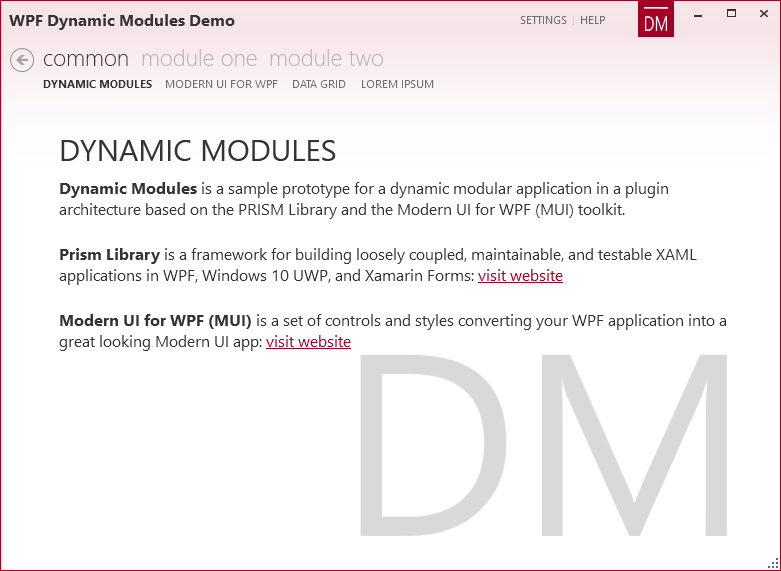
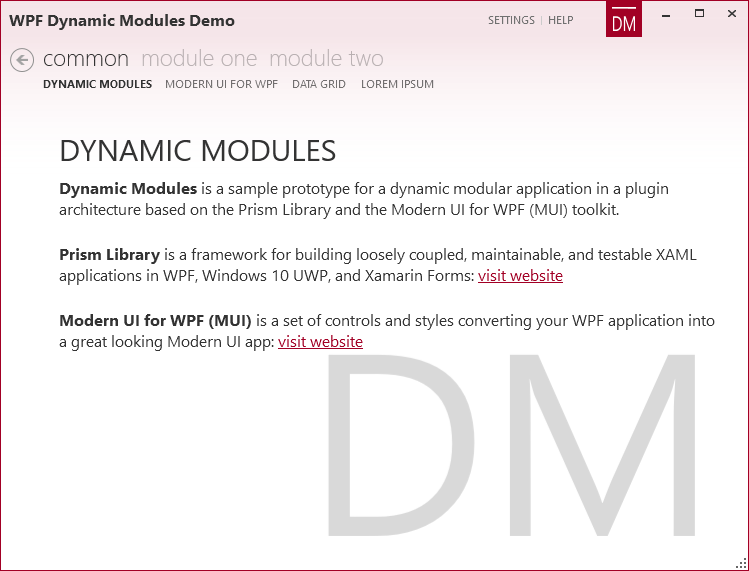
Minor corrections

diff --git a/src/DynamicModules/Views/IntroductionView.xaml b/src/DynamicModules/Views/IntroductionView.xaml
@@ -11,7 +11,7 @@
         <ScrollViewer>
             <StackPanel >
                 <TextBlock Text="DYNAMIC MODULES" Style="{StaticResource Heading1}" Margin="0,0,0,8"/>
-                <mui:BBCodeBlock BBCode="[b]Dynamic Modules[/b] is a sample prototype for a dynamic modular application in a plugin architecture based on the PRISM Library and the Modern UI for WPF (MUI) toolkit." Margin="0,0,0,24" />
+                <mui:BBCodeBlock BBCode="[b]Dynamic Modules[/b] is a sample prototype for a dynamic modular application in a plugin architecture based on the Prism Library and the Modern UI for WPF (MUI) toolkit." Margin="0,0,0,24" />
                 <mui:BBCodeBlock BBCode="[b]Prism Library[/b] is a framework for building loosely coupled, maintainable, and testable XAML applications in WPF, Windows 10 UWP, and Xamarin Forms: [url=https://github.com/PrismLibrary/Prism]visit website[/url]" Margin="0,0,0,24" />
                 <mui:BBCodeBlock BBCode="[b]Modern UI for WPF (MUI)[/b] is a set of controls and styles converting your WPF application into a great looking Modern UI app: [url=https://github.com/firstfloorsoftware/mui]visit website[/url]" Margin="0,0,0,24" /> 
             </StackPanel>

diff --git a/src/DM.ModuleTwo/ModuleTwo.cs b/src/DM.ModuleTwo/ModuleTwo.cs
@@ -1,20 +1,26 @@
-using Microsoft.Practices.Unity;
+using System;
+using Microsoft.Practices.Unity;
 using Prism.Modularity;
 
 namespace DM.ModuleTwo
 {
     public class ModuleTwo : IModule
     {
-        public IUnityContainer Container { get; private set; }
-        
+        private readonly IUnityContainer _container;
+
         public ModuleTwo(IUnityContainer container)
         {
-            Container = container;
+            if (container == null)
+            {
+                throw new ArgumentNullException("ModuleTwo container");
+            }
+
+            _container = container;
         }
 
         public void Initialize()
         {
-            //Container.RegisterType<InterfaceName, ClassName>();
+            //_container.RegisterType<InterfaceName, ClassName>();
             System.Windows.MessageBox.Show("ModuleTwo has been initialized ;-)");
         }
     }

diff --git a/src/DM.ModuleOne/ModuleOne.cs b/src/DM.ModuleOne/ModuleOne.cs
@@ -1,20 +1,26 @@
-using Microsoft.Practices.Unity;
+using System;
+using Microsoft.Practices.Unity;
 using Prism.Modularity;
 
 namespace DM.ModuleOne
 {
     public class ModuleOne : IModule
     {
-        public IUnityContainer Container { get; private set; }
+        private readonly IUnityContainer _container;
         
         public ModuleOne(IUnityContainer container)
         {
-            Container = container;
+            if (container == null)
+            {
+                throw new ArgumentNullException("ModuleOne container");
+            }
+
+            _container = container;
         }
 
         public void Initialize()
         {
-            //Container.RegisterType<InterfaceName, ClassName>();
+            //_container.RegisterType<InterfaceName, ClassName>();
             System.Windows.MessageBox.Show("ModuleOne has been initialized ;-)");
         }
     }

diff --git a/src/DM.ModuleOne/Services/LinkGroupService.cs b/src/DM.ModuleOne/Services/LinkGroupService.cs
@@ -16,18 +16,18 @@ namespace DM.ModuleOne.Services
     {
         public LinkGroup GetLinkGroup()
         {
-            LinkGroup _linkGroup = new LinkGroup
+            LinkGroup linkGroup = new LinkGroup
             {
                 DisplayName = "Module One"
             };
 
-            _linkGroup.Links.Add(new Link
+            linkGroup.Links.Add(new Link
             {
                 DisplayName = "Module One",
                 Source = new Uri($"/DM.ModuleOne;component/Views/{typeof(MainView).Name}.xaml", UriKind.Relative)
             });
 
-            return _linkGroup;
+            return linkGroup;
         }
     }
 }

diff --git a/src/DM.ModuleTwo/Services/LinkGroupService.cs b/src/DM.ModuleTwo/Services/LinkGroupService.cs
@@ -16,18 +16,18 @@ namespace DM.ModuleTwo.Services
     {
         public LinkGroup GetLinkGroup()
         {
-            LinkGroup _linkGroup = new LinkGroup
+            LinkGroup linkGroup = new LinkGroup
             {
                 DisplayName = "Module Two"
             };
 
-            _linkGroup.Links.Add(new Link
+            linkGroup.Links.Add(new Link
             {
                 DisplayName = "Module Two",
                 Source = new Uri($"/DM.ModuleTwo;component/Views/{typeof(MainView).Name}.xaml", UriKind.Relative)
             });
 
-            return _linkGroup;
+            return linkGroup;
         }
     }
 }

diff --git a/README.md b/README.md
@@ -1,5 +1,5 @@
 # Dynamic Modules
-Dynamic Modules is a sample prototype for a dynamic modular application based on the [PRISM-Library](https://github.com/PrismLibrary/Prism) and the [Modern UI for WPF (MUI)](https://github.com/firstfloorsoftware/mui) toolkit for creating metro-styled, modern UI WPF applications in a plugin architecture.
+Dynamic Modules is a sample prototype for a WPF modular application based on the [Prism Library](https://github.com/PrismLibrary/Prism) and the [Modern UI for WPF (MUI)](https://github.com/firstfloorsoftware/mui) toolki. It is a proof of concept for creating metro-styled, modern UI WPF applications in a plugin architecture.
 
 ![](https://github.com/hinojosachapel/DynamicModules/blob/master/dynamicmodules.png)
 
@@ -7,17 +7,31 @@ A few time ago a colleague of mine told me about a problem he had to solve. A cu
 
 I wondered if there is a way to solve the problem by using Prism and the open source MUI library for creating a plugin architecture, and came out with a prototype solution which I am presenting here.
 
-## The central ideas for creating the plugin architecture are:
-  * Dynamically load the desired project modules.
+## The central ideas for the proposed plugin architecture are:
+
+  * Put into a directory the desired project modules (or put them all and run a filter on loading time).
+  * Dynamically load the project modules from the modules folder.
+  * Each module exposes an entry point for an option in the main menu.
   * Dynamically build the main menu from the loaded modules.
-  * Each loaded module will expose an entry point for an option in the main menu.
-  * The first option in the main menu will be fixed and common for every user.
+  * The first option in the main menu is fixed and common for every user.
+  * A core module with shared services, repositories, DTOs, data model definitions, etc., is statically loaded. It can be referenced by any solution project.
 
 Dynamic Modules are copied to a directory as part of a post-build step. These modules are not referenced in the startup project and are discovered by examining the assemblies in a directory. The module projects have the following post-build step in order to copy themselves into that directory:
 
-xcopy "$(TargetDir)$(TargetFileName)" "$(TargetDir)modules\" /y
+xcopy "$(TargetDir)$(TargetFileName)" "$(TargetDir)<strong>modules</strong>\" /y
+
+Note that the solution is built into "..\bin\" folder.
 
 <strong>WARNING! Do not forget to explicitly compile the solution before each running so the modules are copied into the modules folder.</strong>
+
+### Links of interest
+You may find complementary information at:
+  * [Modern UI for WPF (MUI) Demo project](https://github.com/firstfloorsoftware/mui/tree/master/1.0/FirstFloor.ModernUI/FirstFloor.ModernUI.App)
+  * [Modern UI for WPF Templates (Visual Studio Extension)](https://visualstudiogallery.msdn.microsoft.com/7a4362a7-fe5d-4f9d-bc7b-0c0dc272fe31)
+  * [Prism Samples WPF / Modularity With Unity](https://github.com/PrismLibrary/Prism-Samples-Wpf/tree/master/Modularity/ModularityWithUnity)
+  * [On Prism's ViewModelLocator convention*](http://brianlagunas.com/getting-started-prisms-new-viewmodellocator/)
+
+*Currently there is no need to "implement" the IView interface in the view's code-behind.
 
 ### Contributors
   * [hinojosachapel](https://github.com/hinojosachapel)
